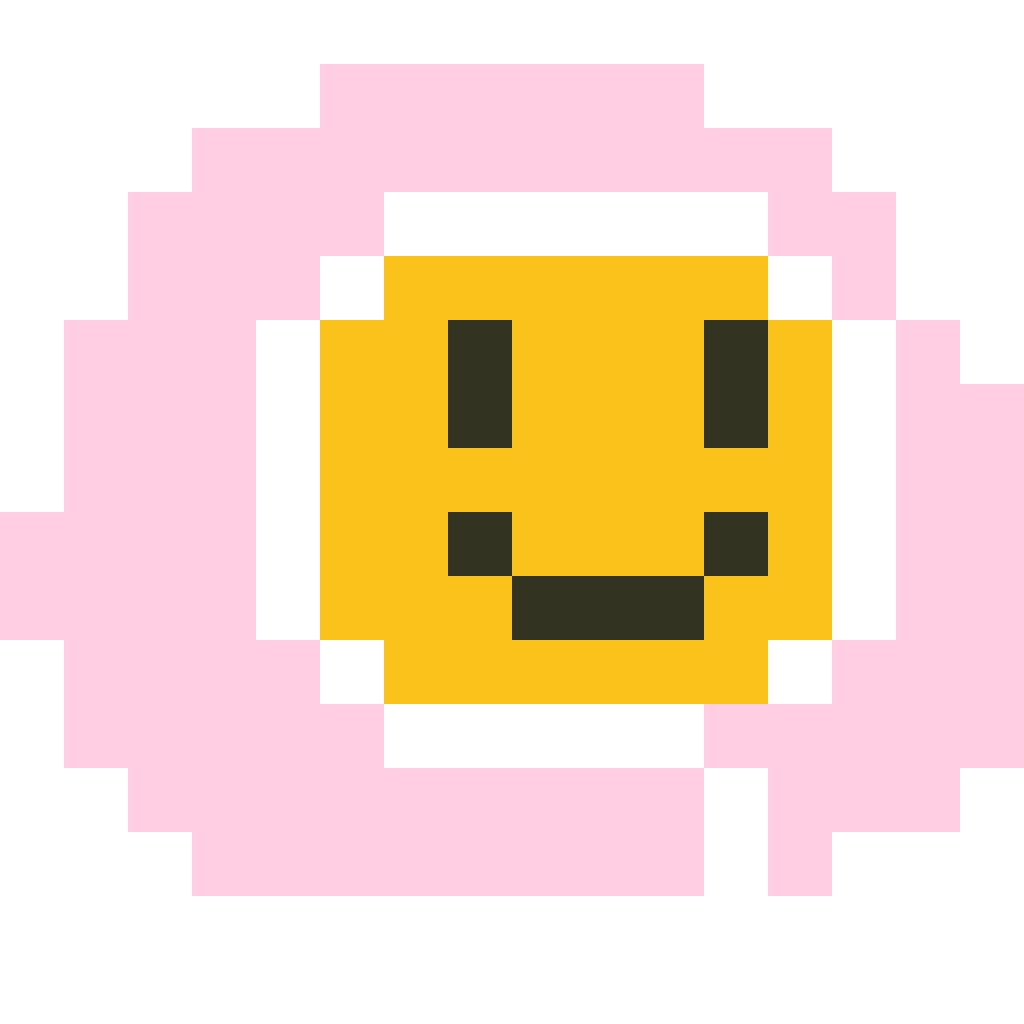
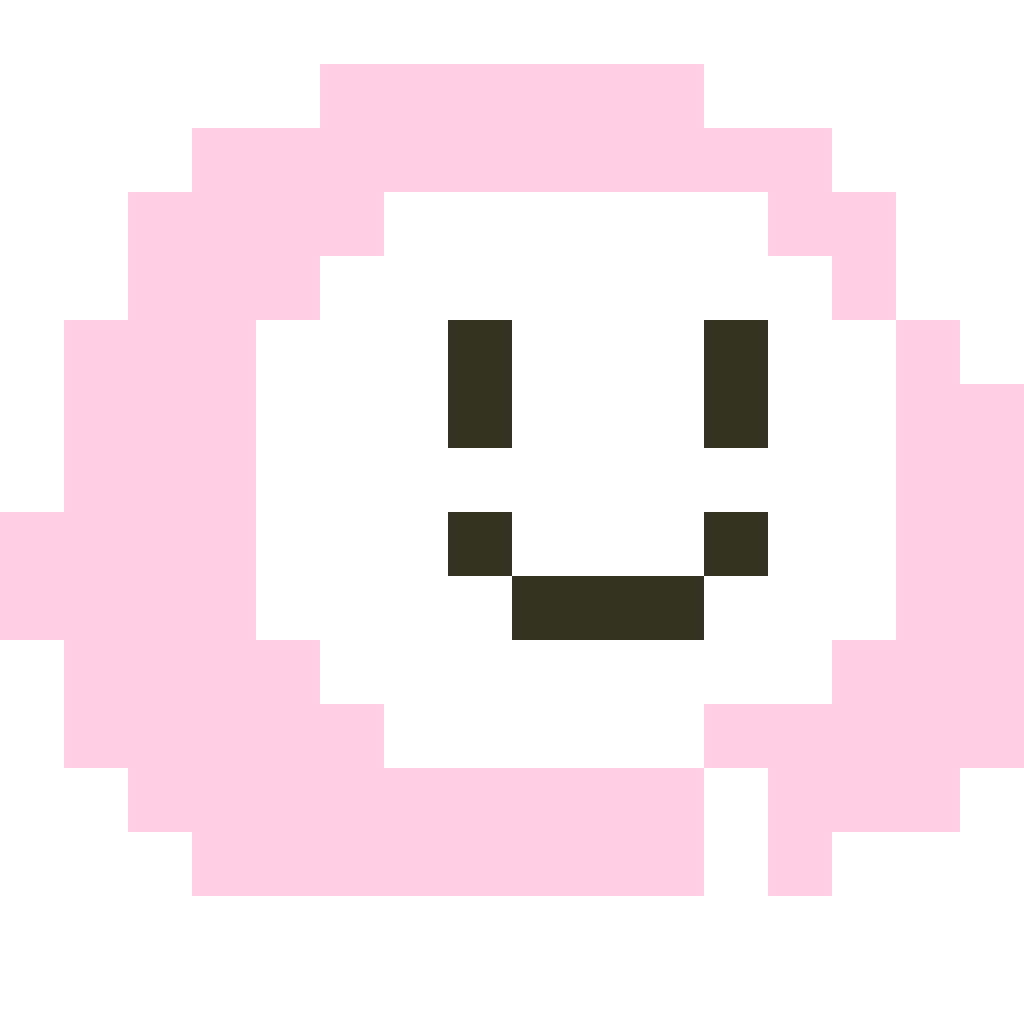
More comfy comfy website

Changed region(s): [[0.3125, 0.25, 0.8125, 0.6875]]

diff --git a/sass/style.scss b/sass/style.scss
@@ -32,29 +32,33 @@
 }
 
 /* SCSS HEX */
-$dark-purple: #331832ff;
-$raspberry: #d81e5bff;
-$vermilion: #f0544fff;
-$ash-gray: #c6d8d3ff;
-$papaya-whip: #fdf0d5ff;
+// $dark-purple: #331832ff;
+// $raspberry: #d81e5bff;
+// $vermilion: #f0544fff;
+// $ash-gray: #c6d8d3ff;
+// $papaya-whip: #fdf0d5ff;
 
-/* SCSS Gradient */
-$gradient-top: linear-gradient(0deg, #331832ff, #d81e5bff, #f0544fff, #c6d8d3ff, #fdf0d5ff);
-$gradient-right: linear-gradient(90deg, #331832ff, #d81e5bff, #f0544fff, #c6d8d3ff, #fdf0d5ff);
-$gradient-bottom: linear-gradient(180deg, #331832ff, #d81e5bff, #f0544fff, #c6d8d3ff, #fdf0d5ff);
-$gradient-left: linear-gradient(270deg, #331832ff, #d81e5bff, #f0544fff, #c6d8d3ff, #fdf0d5ff);
-$gradient-top-right: linear-gradient(45deg, #331832ff, #d81e5bff, #f0544fff, #c6d8d3ff, #fdf0d5ff);
-$gradient-bottom-right: linear-gradient(135deg, #331832ff, #d81e5bff, #f0544fff, #c6d8d3ff, #fdf0d5ff);
-$gradient-top-left: linear-gradient(225deg, #331832ff, #d81e5bff, #f0544fff, #c6d8d3ff, #fdf0d5ff);
-$gradient-bottom-left: linear-gradient(315deg, #331832ff, #d81e5bff, #f0544fff, #c6d8d3ff, #fdf0d5ff);
-$gradient-radial: radial-gradient(#331832ff, #d81e5bff, #f0544fff, #c6d8d3ff, #fdf0d5ff);
+$nyanza: #d6f6dd;
+$salmon-pink: #f4989c;
+$indian-red: #CE6C70;
 
-$primary: $raspberry;
-$secondary: $vermilion;
+$beige: #f1edd0;
+$night: #12130f;
+$non-photo-blue: #acecf7;
 
-$body-bg-dark: $dark-purple;
-$body-color-dark: $papaya-whip;
-$body-secondary-bg-dark: $ash-gray;
+$teal: #38808C;
+
+$primary: darken($nyanza, 10%);
+$secondary: darken($salmon-pink, 20%);
+
+$border-color: darken($non-photo-blue, 8%);
+
+$body-bg: lighten($non-photo-blue, 9%);
+$body-color: $night;
+$body-secondary-bg: $non-photo-blue;
+
+$link-color: $teal;
+
 
 // 1. Include functions first (so you can manipulate colors, SVGs, calc, etc)
 @import "./bootstrap-5.3.2/functions";

diff --git a/templates/index.html b/templates/index.html
@@ -1,5 +1,5 @@
 <!DOCTYPE html>
-<html lang="en" data-bs-theme="dark">
+<html lang="en">
   <head>
     <meta charset="utf-8" />
     <meta name="viewport" content="width=device-width, initial-scale=1" />
@@ -45,9 +45,9 @@
           <li class="nav-item">
             <a href="#" class="">
               <img
-                width="32"
-                height="32"
-                src="./github-mark-white.svg"
+                width="40"
+                height="40"
+                src="./github-mark.svg"
                 alt="Github repo"
             /></a>
           </li>
